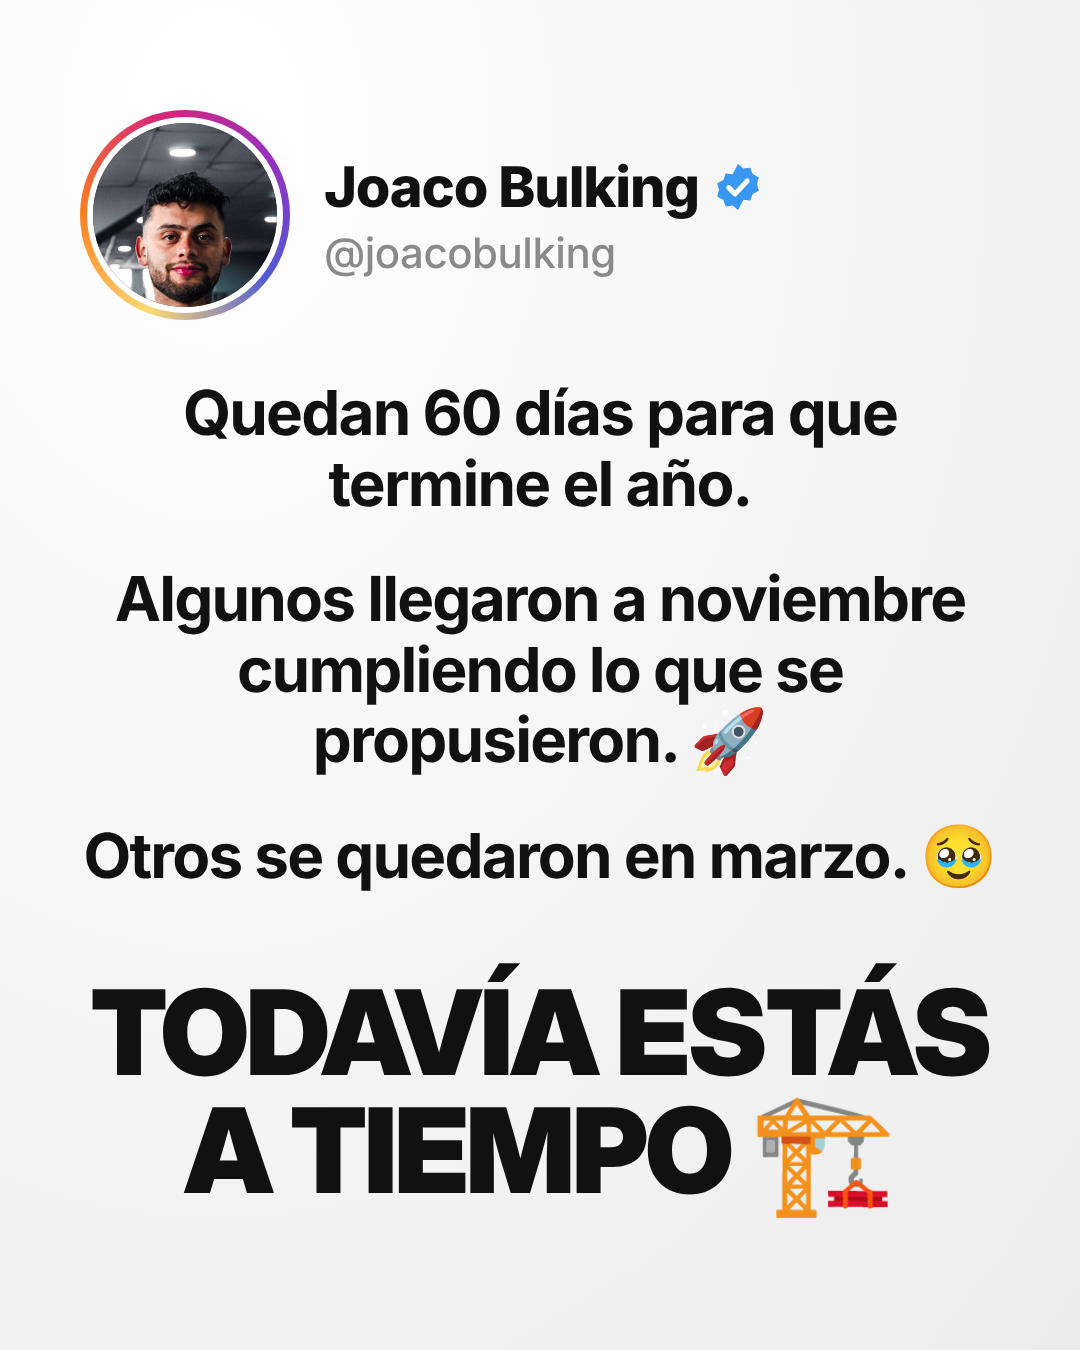
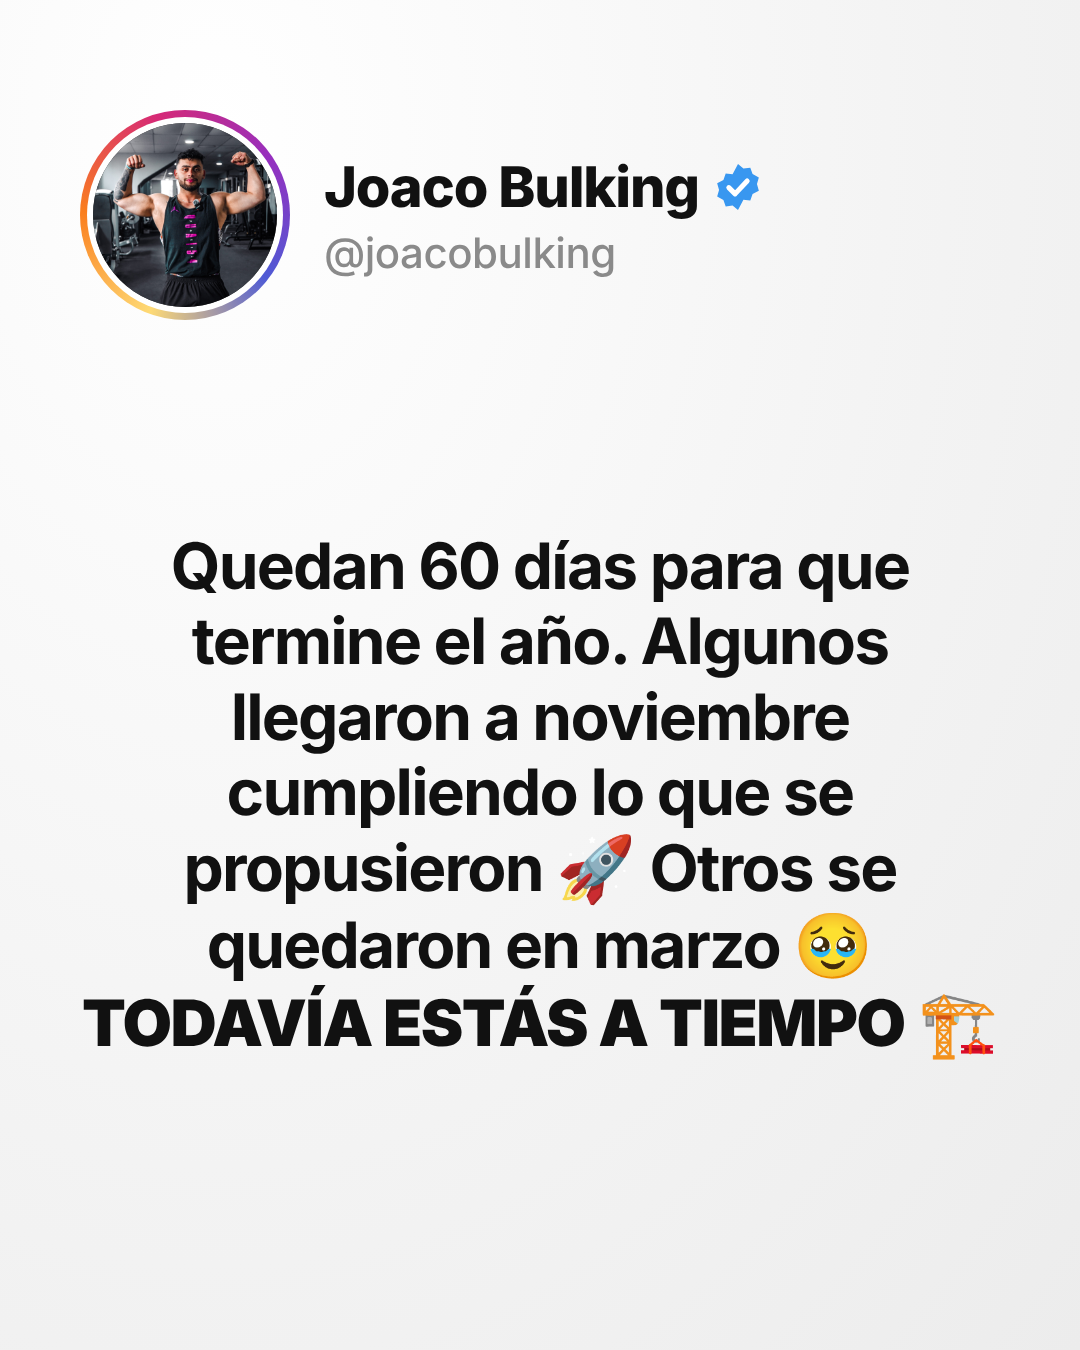
Post noviembre: texto en un solo párrafo, CTA más pequeño, foto de perfil completa
Claude-Session: https://claude.ai/code/session_01CoBw7UrmLzFv47HBfQE2u3

Changed region(s): [[0.0611, 0.4044, 0.9167, 0.9022], [0.1528, 0.28, 0.825, 0.3733], [0.0917, 0.0933, 0.275, 0.2489]]

diff --git a/post/post.html b/post/post.html
@@ -10,13 +10,14 @@
     background: conic-gradient(from 200deg, #feda75, #fa7e1e, #d62976, #962fbf, #4f5bd5, #feda75); }
   .ring-inner { width:100%; height:100%; border-radius:50%; background:#fff; padding:6px; }
   .avatar { width:100%; height:100%; border-radius:50%; overflow:hidden; position:relative; background:#333; }
-  .avatar img { position:absolute; width:560px; left:-204px; top:-150px; }
+  .avatar img { position:absolute; width:100%; left:0; top:-40px; }
   .name { font-size:56px; font-weight:800; letter-spacing:-1.2px; display:flex; align-items:center; gap:14px; }
   .badge { width:50px; height:50px; }
   .handle { font-size:42px; color:#8a8a8a; font-weight:500; margin-top:6px; letter-spacing:-0.5px; }
   .body { flex:1; display:flex; flex-direction:column; justify-content:center; text-align:center; padding-bottom:80px; }
-  .txt { font-size:62px; font-weight:700; line-height:1.14; letter-spacing:-1.8px; }
+  .txt { font-size:64px; font-weight:700; line-height:1.18; letter-spacing:-1.8px; }
   .txt p + p { margin-top:44px; }
+  .cta { font-weight:900; letter-spacing:-1.5px; }
   .big { margin-top:80px; font-family:"Inter Display","Inter",sans-serif; font-size:118px; font-weight:900; line-height:1.0; letter-spacing:-3px; }
   .emoji { font-family:"Noto Color Emoji"; letter-spacing:0; }
 </style></head>
@@ -32,10 +33,7 @@
   </div>
   <div class="body">
     <div class="txt">
-      <p>Quedan 60 días para que termine el año.</p>
-      <p>Algunos llegaron a noviembre cumpliendo lo que se propusieron. <span class="emoji">🚀</span></p>
-      <p>Otros se quedaron en marzo. <span class="emoji">🥹</span></p>
+      <p>Quedan 60 días para que termine el año. Algunos llegaron a noviembre cumpliendo lo que se propusieron <span class="emoji">🚀</span> Otros se quedaron en marzo <span class="emoji">🥹</span> <span class="cta">TODAVÍA ESTÁS A TIEMPO</span> <span class="emoji">🏗</span></p>
     </div>
-    <div class="big">TODAVÍA ESTÁS<br>A TIEMPO <span class="emoji">🏗</span></div>
   </div>
 </div></body></html>
